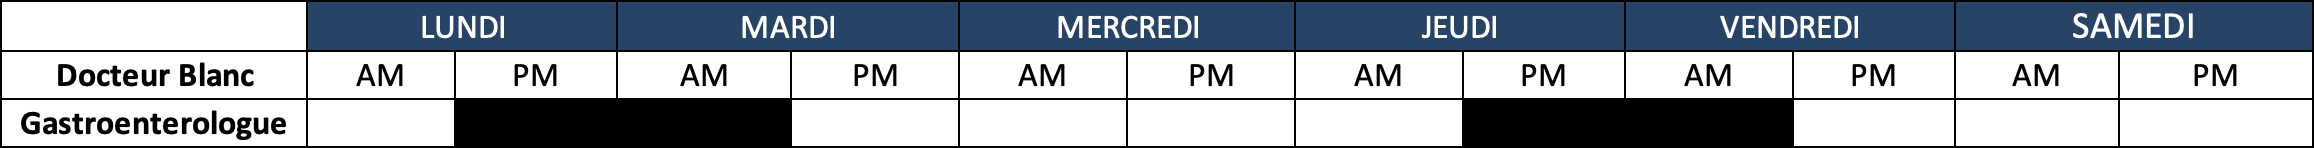
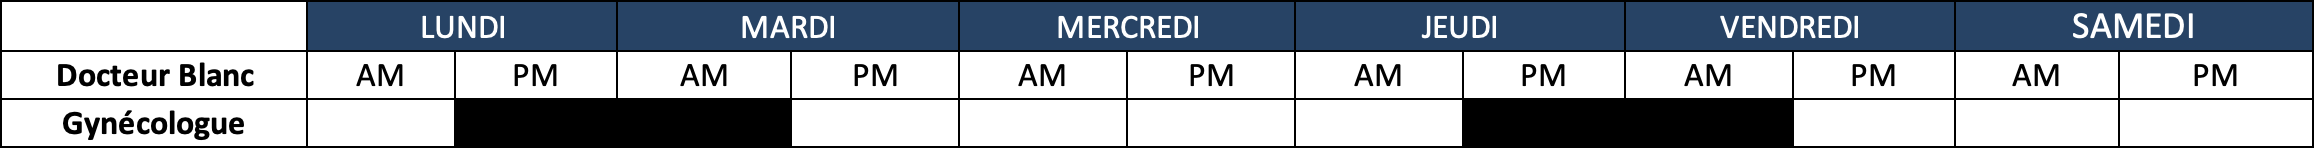
planning

Changed region(s): [[0.0, 0.7568, 0.1245, 0.9459]]

diff --git a/osthéopathie.php b/osthéopathie.php
@@ -191,7 +191,7 @@
                     echo "<div class='doctor-info'>";
                     echo "<div class='doctor-photo'><img src='" . $photo . "' alt='Photo du Dr. " . htmlspecialchars($row['nom']) . " " . htmlspecialchars($row['prénom']) . "'></div>";
                     echo "<div class='doctor-details'>";
-                    echo "<p><strong>Allergologue:</strong> Dr " . htmlspecialchars($row['nom']) . "</p>";
+                    echo "<p><strong>Osthéopathe:</strong> Dr " . htmlspecialchars($row['nom']) . "</p>";
                     echo "<p><strong>Bureau:</strong> " . htmlspecialchars($row['bureau']) . "</p>";
                     echo "<p><strong>Numéro de téléphone:</strong> " . htmlspecialchars($row['telephone']) . "</p>";
                     echo "<p><strong>Email:</strong> " . htmlspecialchars($row['mail']) . "</p>";
@@ -200,7 +200,7 @@
                     echo "</div>";
 
                     echo "<br>"; // Ajout d'une ligne vide
-                    echo "<img src='medecin/planning_med9.png' alt='Planning' class='planning-image' width='900' height='100'>";
+                    echo "<img src='medecin/planning_med15.png' alt='Planning' class='planning-image' width='900' height='100'>";
 
                     // Affichage des boutons sous chaque médecin
                     echo "<div class='button-group'>";

diff --git a/gastro.php b/gastro.php
@@ -188,7 +188,7 @@
                     echo "<div class='doctor-info'>";
                     echo "<div class='doctor-photo'><img src='" . $photo . "' alt='Photo du Dr. " . htmlspecialchars($row['nom']) . " " . htmlspecialchars($row['prénom']) . "'></div>";
                     echo "<div class='doctor-details'>";
-                    echo "<p><strong>Endocrinologue:</strong> Dr " . htmlspecialchars($row['nom']) . "</p>";
+                    echo "<p><strong>Gastro-entérologue:</strong> Dr " . htmlspecialchars($row['nom']) . "</p>";
                     echo "<p><strong>Bureau:</strong> " . htmlspecialchars($row['bureau']) . "</p>";
                     echo "<p><strong>Numéro de téléphone:</strong> " . htmlspecialchars($row['telephone']) . "</p>";
                     echo "<p><strong>Email:</strong> " . htmlspecialchars($row['mail']) . "</p>";

diff --git a/gynecologue.php b/gynecologue.php
@@ -188,7 +188,7 @@
                     echo "<div class='doctor-info'>";
                     echo "<div class='doctor-photo'><img src='" . $photo . "' alt='Photo du Dr. " . htmlspecialchars($row['nom']) . " " . htmlspecialchars($row['prénom']) . "'></div>";
                     echo "<div class='doctor-details'>";
-                    echo "<p><strong>Gastroenterologue:</strong> Dr " . htmlspecialchars($row['nom']) . "</p>";
+                    echo "<p><strong>Gynécologue:</strong> Dr " . htmlspecialchars($row['nom']) . "</p>";
                     echo "<p><strong>Bureau:</strong> " . htmlspecialchars($row['bureau']) . "</p>";
                     echo "<p><strong>Numéro de téléphone:</strong> " . htmlspecialchars($row['telephone']) . "</p>";
                     echo "<p><strong>Email:</strong> " . htmlspecialchars($row['mail']) . "</p>";

diff --git a/IST.php b/IST.php
@@ -188,7 +188,7 @@
                     echo "<div class='doctor-info'>";
                     echo "<div class='doctor-photo'><img src='" . $photo . "' alt='Photo du Dr. " . htmlspecialchars($row['nom']) . " " . htmlspecialchars($row['prénom']) . "'></div>";
                     echo "<div class='doctor-details'>";
-                    echo "<p><strong>Hématologue:</strong> Dr " . htmlspecialchars($row['nom']) . "</p>";
+                    echo "<p><strong>Médecin IST:</strong> Dr " . htmlspecialchars($row['nom']) . "</p>";
                     echo "<p><strong>Bureau:</strong> " . htmlspecialchars($row['bureau']) . "</p>";
                     echo "<p><strong>Numéro de téléphone:</strong> " . htmlspecialchars($row['telephone']) . "</p>";
                     echo "<p><strong>Email:</strong> " . htmlspecialchars($row['mail']) . "</p>";

diff --git a/andrologie.php b/andrologie.php
@@ -191,7 +191,7 @@
                     echo "<div class='doctor-info'>";
                     echo "<div class='doctor-photo'><img src='" . $photo . "' alt='Photo du Dr. " . htmlspecialchars($row['nom']) . " " . htmlspecialchars($row['prénom']) . "'></div>";
                     echo "<div class='doctor-details'>";
-                    echo "<p><strong>Allergologue:</strong> Dr " . htmlspecialchars($row['nom']) . "</p>";
+                    echo "<p><strong>Andrologue:</strong> Dr " . htmlspecialchars($row['nom']) . "</p>";
                     echo "<p><strong>Bureau:</strong> " . htmlspecialchars($row['bureau']) . "</p>";
                     echo "<p><strong>Numéro de téléphone:</strong> " . htmlspecialchars($row['telephone']) . "</p>";
                     echo "<p><strong>Email:</strong> " . htmlspecialchars($row['mail']) . "</p>";
